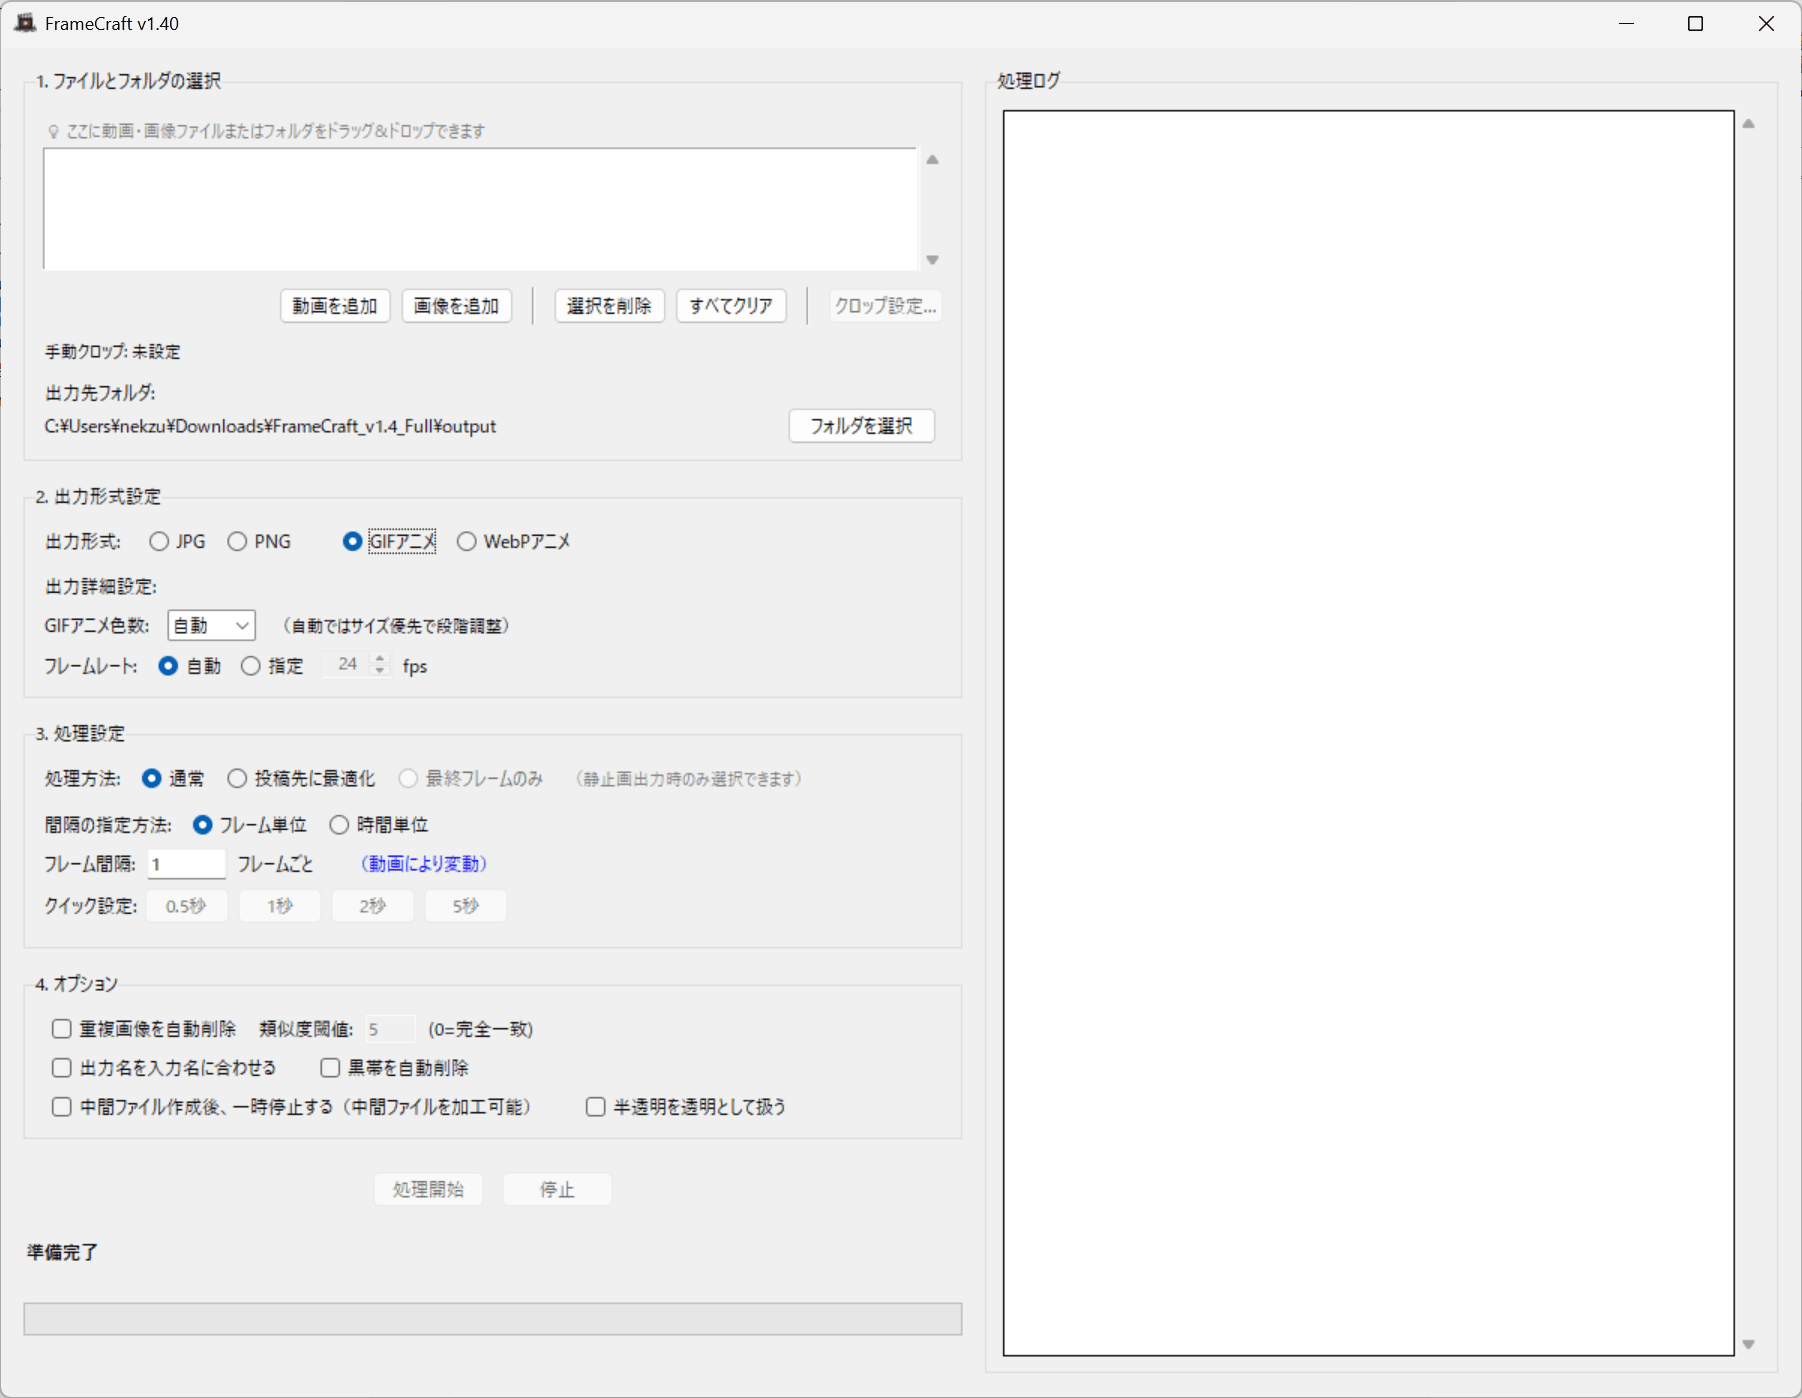
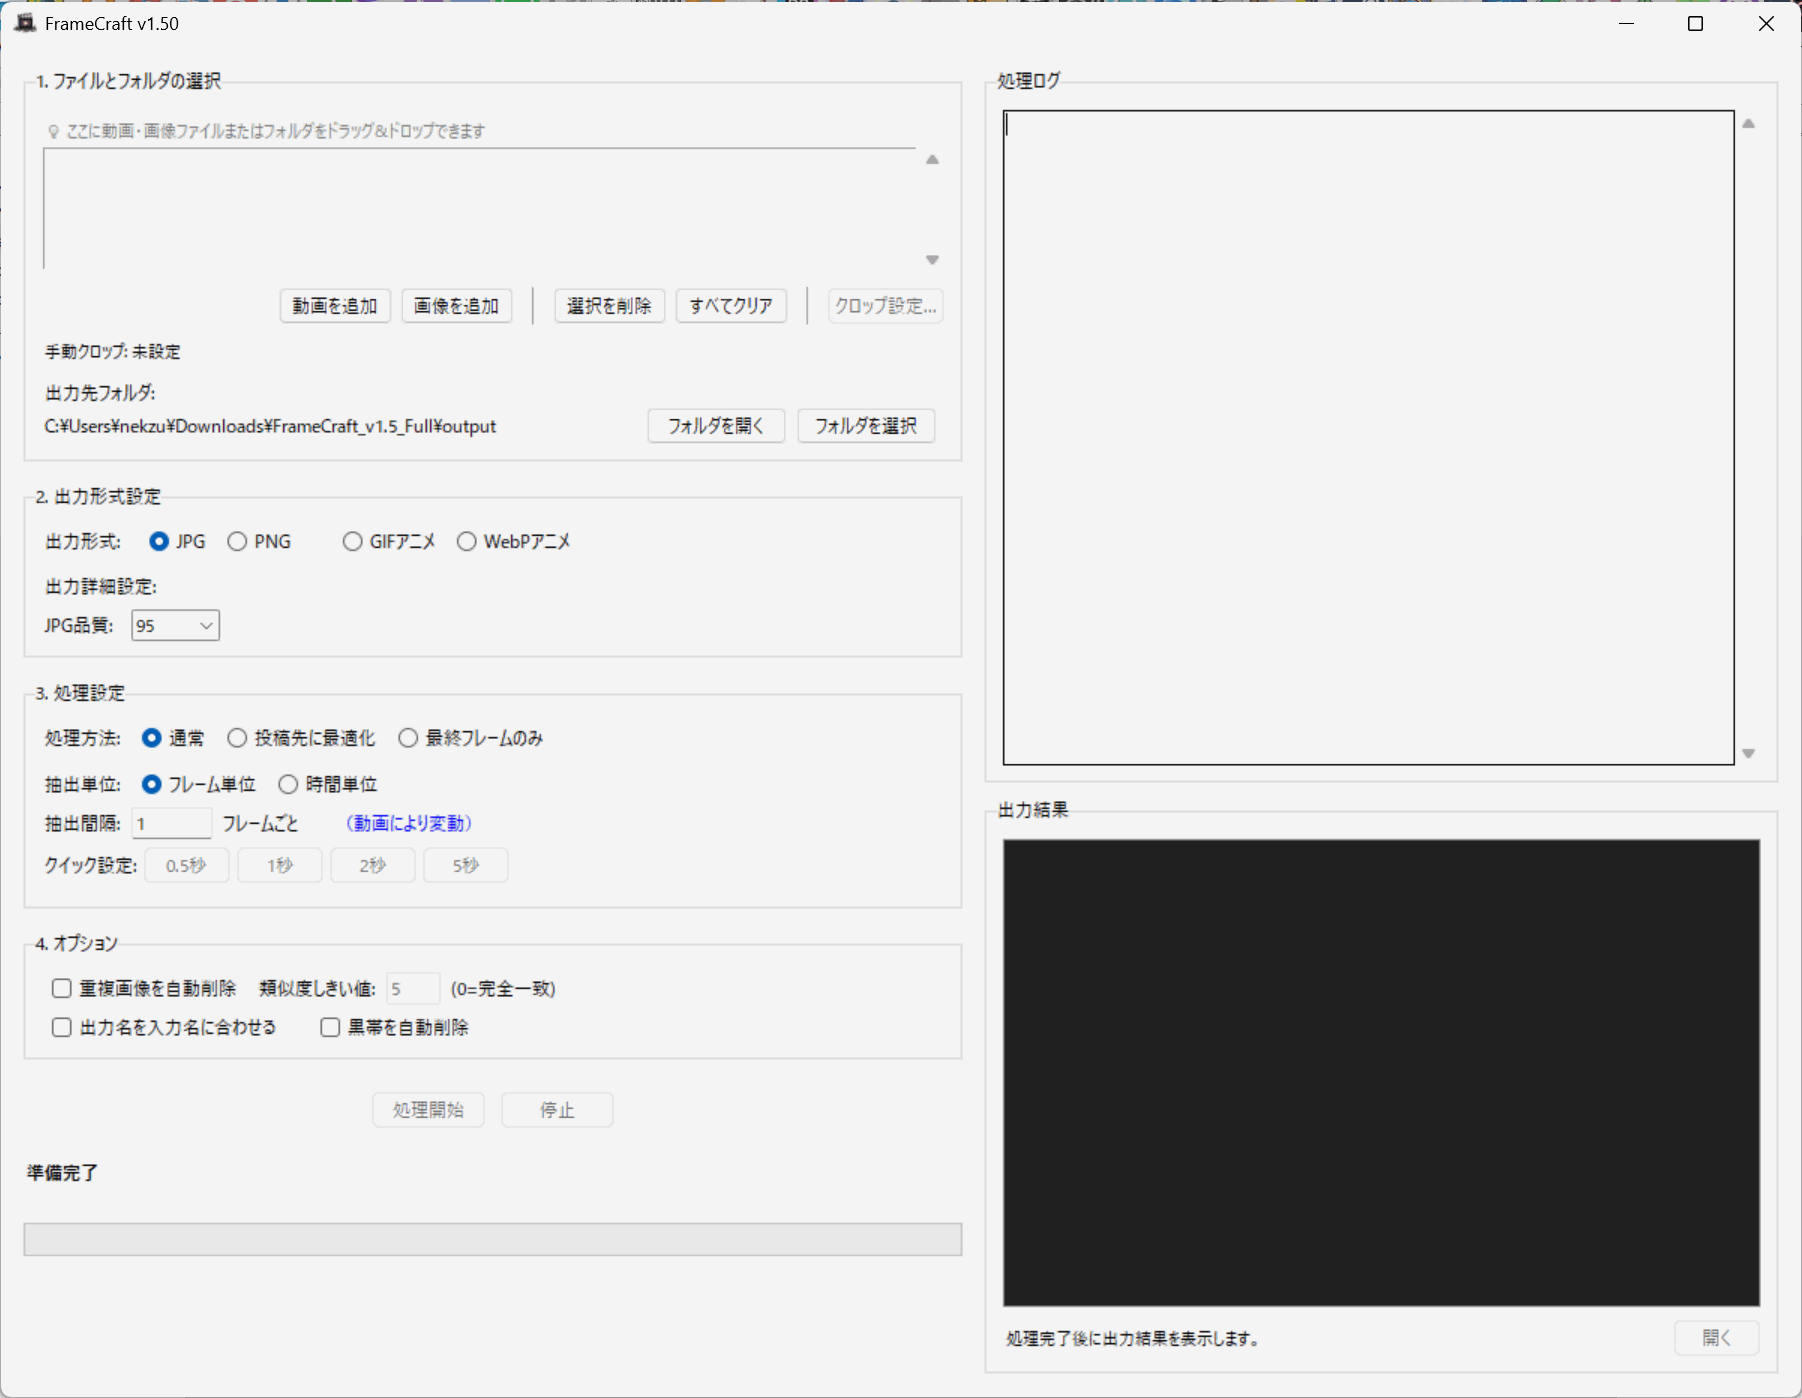
framecraft update

diff --git a/frame-craft.html b/frame-craft.html
@@ -479,7 +479,7 @@
           "Batch processing for multiple videos",
           "Multilingual UI (English / Japanese)"
         ],
-        "softwareVersion": "1.40",
+        "softwareVersion": "1.50",
         "offers": [
           {
             "@type": "Offer",
@@ -749,10 +749,10 @@
           <p>
             <a
               class="btn download"
-              href="https://drive.google.com/file/d/1qoGdxW68F9pfOxQ3j4rgpprDzSjd9Ma5/view?usp=drive_link"
+              href="https://downloads.nekzuk.com/framecraft/FrameCraft_v1.5_Trial.zip"
               rel="noopener"
               target="_blank"
-              >Download from Google Drive</a
+              >Download</a
             >
           </p>
           <div class="hr"></div>
@@ -775,27 +775,25 @@
             <div class="box">
               <div class="kv">
                 <div class="label lang-en">Current Version</div>
-                <div class="value">v1.40</div>
+                <div class="value">v1.50</div>
               </div>
             </div>
             <div class="box">
               <div class="kv">
                 <div class="label lang-en">Release Date</div>
-                <div class="value">2026-05-04</div>
+                <div class="value">2026-06-21</div>
               </div>
             </div>
           </div>
           <div class="hr"></div>
           <h3><span class="lang-en">Latest Updates</span></h3>
           <ul class="lang-en">
-            <li>Create GIF/WEBP animations from JPG/PNG image sequences</li>
-            <li>Manual crop settings with preview and aspect-ratio locking</li>
-            <li>FPS and quality tuning for animation output</li>
-            <li>Improved posting-oriented optimization workflows</li>
+            <li>Auto update Support</li>
+            <li>Add Preview Display</li>
           </ul>
           <p style="margin-top: 1rem">
             <a
-              href="https://note.com/nekzuk/n/n6e02be9105af"
+              href="https://note.com/nekzuk/n/n887e34a38c4c"
               rel="noopener"
               target="_blank"
             >

diff --git a/frame-craft_j.html b/frame-craft_j.html
@@ -479,7 +479,7 @@
           "複数動画の一括処理",
           "多言語UI（日本語 / 英語）"
         ],
-        "softwareVersion": "1.40",
+        "softwareVersion": "1.50",
         "offers": [
           {
             "@type": "Offer",
@@ -744,10 +744,10 @@
           <p>
             <a
               class="btn download"
-              href="https://drive.google.com/file/d/1qoGdxW68F9pfOxQ3j4rgpprDzSjd9Ma5/view?usp=drive_link"
+              href="https://downloads.nekzuk.com/framecraft/FrameCraft_v1.5_Trial.zip"
               rel="noopener"
               target="_blank"
-              >Download from Google Drive</a
+              >Download</a
             >
           </p>
           <div class="hr"></div>
@@ -770,27 +770,25 @@
             <div class="box">
               <div class="kv">
                 <div class="label lang-ja">最新バージョン</div>
-                <div class="value">v1.40</div>
+                <div class="value">v1.50</div>
               </div>
             </div>
             <div class="box">
               <div class="kv">
                 <div class="label lang-ja">リリース日</div>
-                <div class="value">2026-05-04</div>
+                <div class="value">2026-05-21</div>
               </div>
             </div>
           </div>
           <div class="hr"></div>
           <h3><span class="lang-ja">最新の更新内容</span></h3>
           <ul class="lang-ja">
-            <li>JPG/PNG連番からGIF/WEBPアニメーションを作成可能に変更</li>
-            <li>プレビュー付き手動クロップとアスペクト比固定に対応</li>
-            <li>アニメーション出力時のFPS・品質調整を強化</li>
-            <li>投稿向け最適化ワークフローを改善</li>
+            <li>自動更新に対応</li>
+            <li>プレビュー表示追加</li>
           </ul>
           <p style="margin-top: 1rem">
             <a
-              href="https://note.com/nekzuk/n/n6e02be9105af"
+              href="https://note.com/nekzuk/n/n887e34a38c4c"
               rel="noopener"
               target="_blank"
             >

diff --git a/index_j.html b/index_j.html
@@ -984,19 +984,19 @@
         <h2 class="news-title">更新情報</h2>
         <ul class="news-list">
           <li>
-            <time datetime="2026-06-06">2026-06-19</time>
+            <time datetime="2026-06-21">2026-06-21</time>
+            <span class="news-tag">アップデート</span>
+            <span><a href="frame-craft_j.html">Frame Craft</a> v1.50 を公開しました</span>
+          </li>
+          <li>
+            <time datetime="2026-06-19">2026-06-19</time>
             <span class="news-tag">アップデート</span>
             <span><a href="meta-converter_j.html">Meta Converter</a> v4.00 を公開しました</span>
           </li>
           <li>
-            <time datetime="2026-05-31">2026-06-19</time>
+            <time datetime="2026-06-19">2026-06-19</time>
             <span class="news-tag">アップデート</span>
             <span><a href="ai-meta-cleaner_j.html">AI Meta Cleaner</a> v1.20 を公開しました</span>
-          </li>
-          <li>
-            <time datetime="2026-06-06">2026-06-06</time>
-            <span class="news-tag">アップデート</span>
-            <span><a href="nai-smart-studio_j.html">NAI Smart Studio</a> v1.20 を公開しました</span>
           </li>
         </ul>
       </section>

diff --git a/index.html b/index.html
@@ -932,17 +932,17 @@
 <h2 class="news-title">What's New</h2>
 <ul class="news-list">
 <li>
-<time datetime="2026-06-06">2026-06-19</time>
+<time datetime="2026-06-21">2026-06-21</time>
 <span class="news-tag">Update</span>
-<span><a href="meta-converter.html">Meta Converter</a> v4.00 released</span>
+<span><a href="frame-craft.html">Frame Craft</a> v1.50 released</span>
 </li>
 <li>
-<time datetime="2026-05-31">2026-06-19</time>
+<time datetime="2026-06-19">2026-06-19</time>
 <span class="news-tag">Update</span>
 <span><a href="ai-meta-cleaner.html">AI Meta Cleaner</a> v1.20 released</span>
 </li>
 <li>
-<time datetime="2026-05-20">2026-06-06</time>
+<time datetime="2026-06-19">2026-06-06</time>
 <span class="news-tag">Update</span>
 <span><a href="nai-smart-studio.html">NAI Smart Studio</a> v1.20 released</span>
 </li>

diff --git a/meta-converter.html b/meta-converter.html
@@ -450,7 +450,7 @@ ul.lang-ja, ol.lang-ja {display:none}
 </section>
 <section class="section" id="trial">
 <h2><span class="lang-en">Trial Version</span></h2>
-<p><a class="btn download" href="https://downloads.nekzuk.com/metaconverter/Meta_Converter_Trial_400.zip" rel="noopener" target="_blank">Download from Google Drive</a></p>
+<p><a class="btn download" href="https://downloads.nekzuk.com/metaconverter/Meta_Converter_Trial_400.zip" rel="noopener" target="_blank">Download</a></p>
 <div class="hr"></div>
 <h3><span class="lang-en">Trial Limitations</span></h3>
 <ul class="lang-en">

diff --git a/meta-converter_j.html b/meta-converter_j.html
@@ -449,7 +449,7 @@ ul.lang-ja, ol.lang-ja {display:block}
 </section>
 <section class="section" id="trial">
 <h2><span class="lang-ja">体験版</span></h2>
-<p><a class="btn download" href="https://downloads.nekzuk.com/metaconverter/Meta_Converter_Trial_400.zip" rel="noopener" target="_blank">Download from Google Drive</a></p>
+<p><a class="btn download" href="https://downloads.nekzuk.com/metaconverter/Meta_Converter_Trial_400.zip" rel="noopener" target="_blank">Download</a></p>
 <div class="hr"></div>
 <h3><span class="lang-ja">体験版の制限事項</span></h3>
 <ul class="lang-ja">